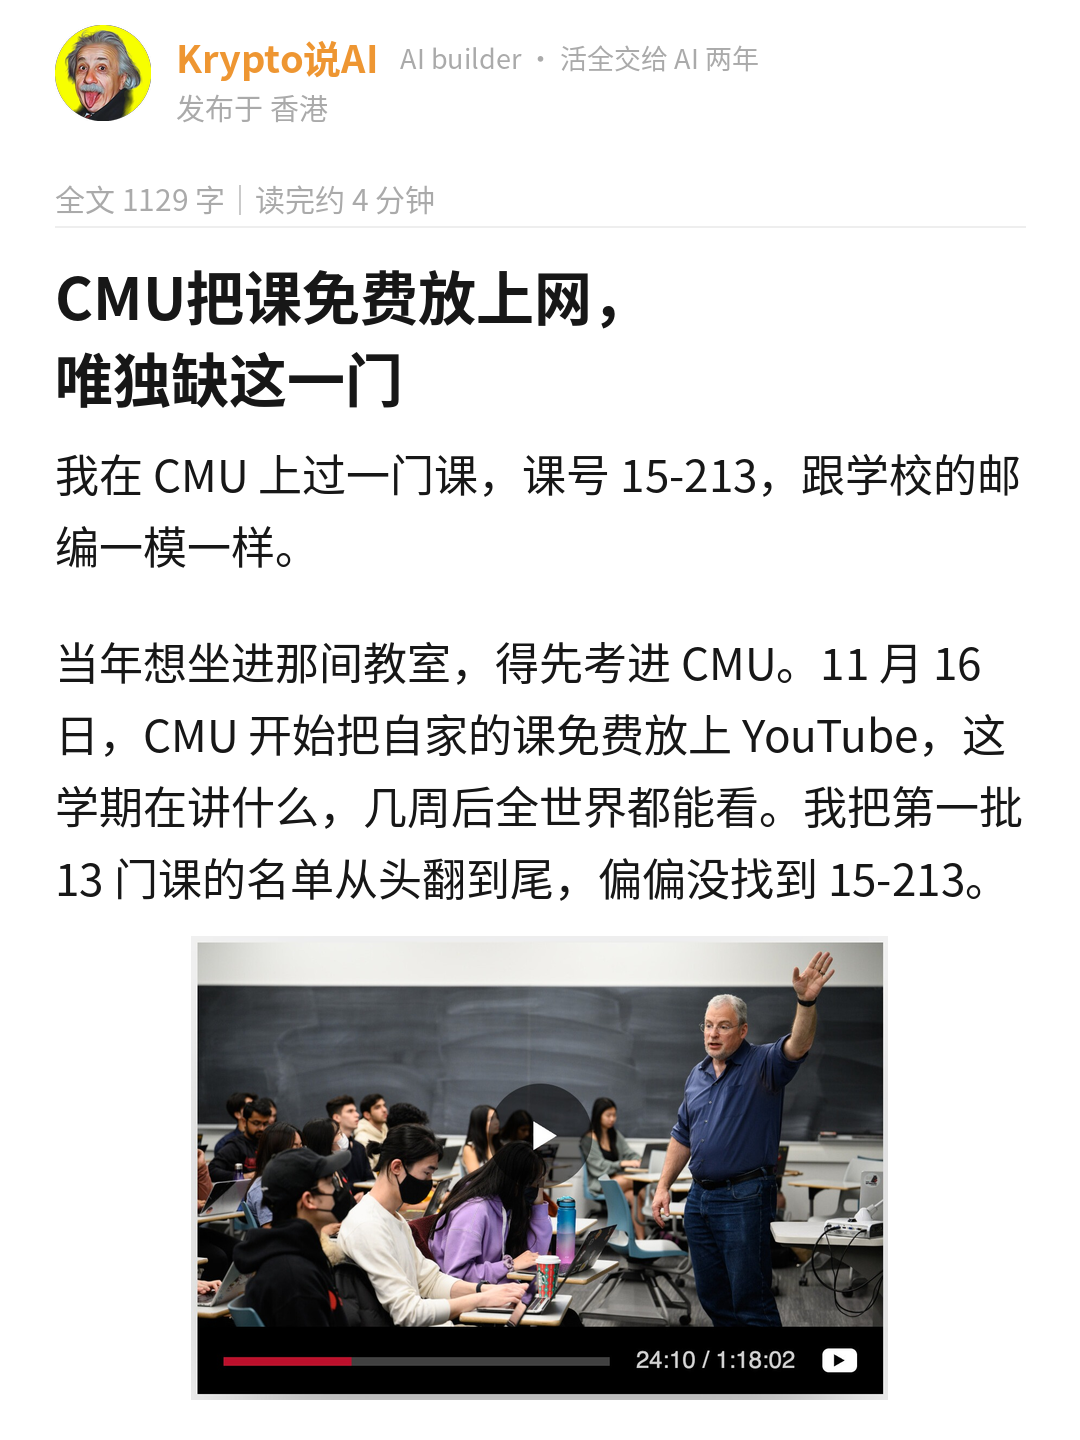
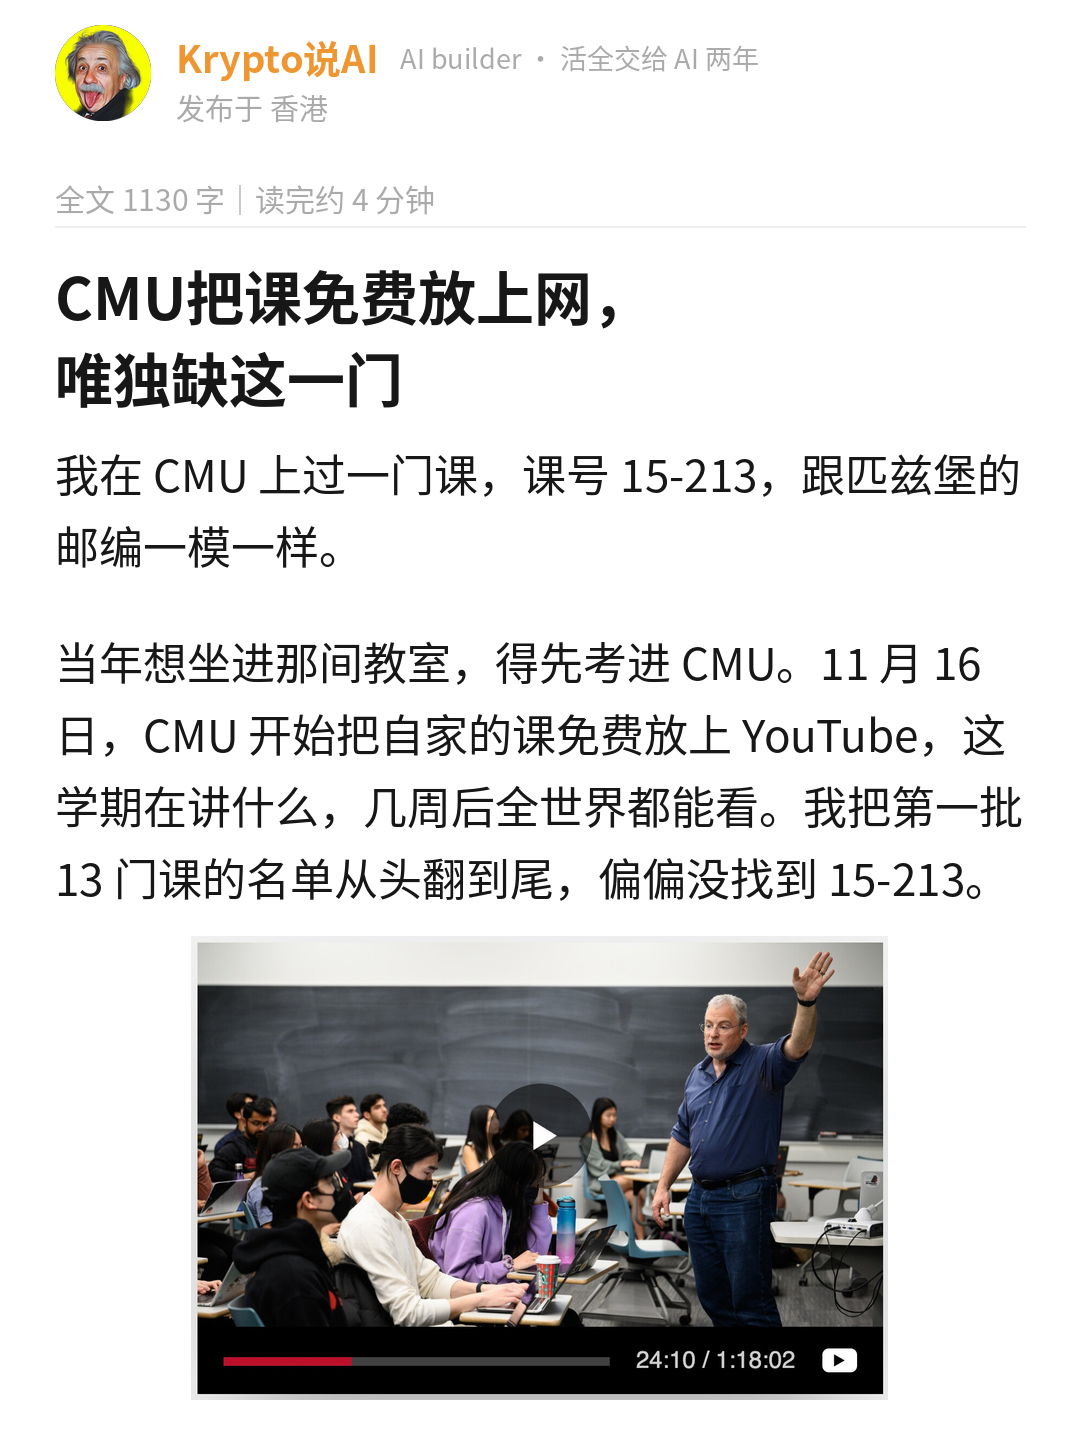
CMU CS Learn 稿：首句改「跟匹兹堡的邮编一模一样」
Claude-Session: https://claude.ai/code/session_01NaeRTdLFAkf1CdSzGPdtzn

Changed region(s): [[0.0611, 0.3438, 0.3056, 0.4062], [0.7639, 0.3125, 0.9472, 0.3438]]

diff --git a/发布/2026-11-18_cmu-cs-learn/meme-v2版/编辑用/draft.md b/发布/2026-11-18_cmu-cs-learn/meme-v2版/编辑用/draft.md
@@ -18,7 +18,7 @@ location: 香港
 account: Krypto说AI
 ---
 
-我在 CMU 上过一门课，课号 15-213，跟学校的邮编一模一样。
+我在 CMU 上过一门课，课号 15-213，跟匹兹堡的邮编一模一样。
 
 当年想坐进那间教室，得先考进 CMU。11 月 16 日，CMU 开始把自家的课免费放上 YouTube，这学期在讲什么，几周后全世界都能看。我把第一批 13 门课的名单从头翻到尾，偏偏没找到 15-213。
 
